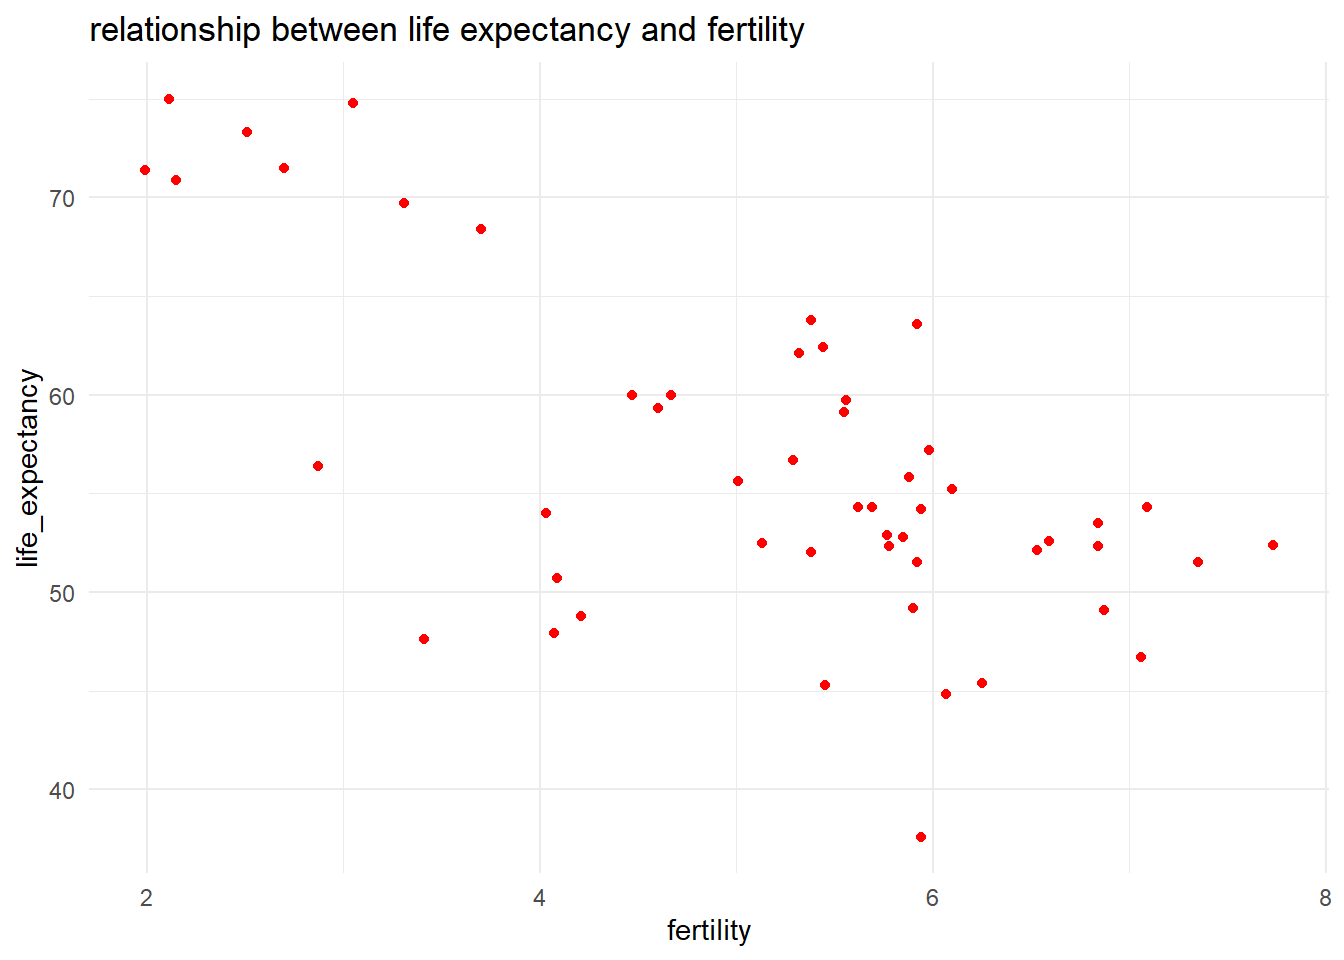
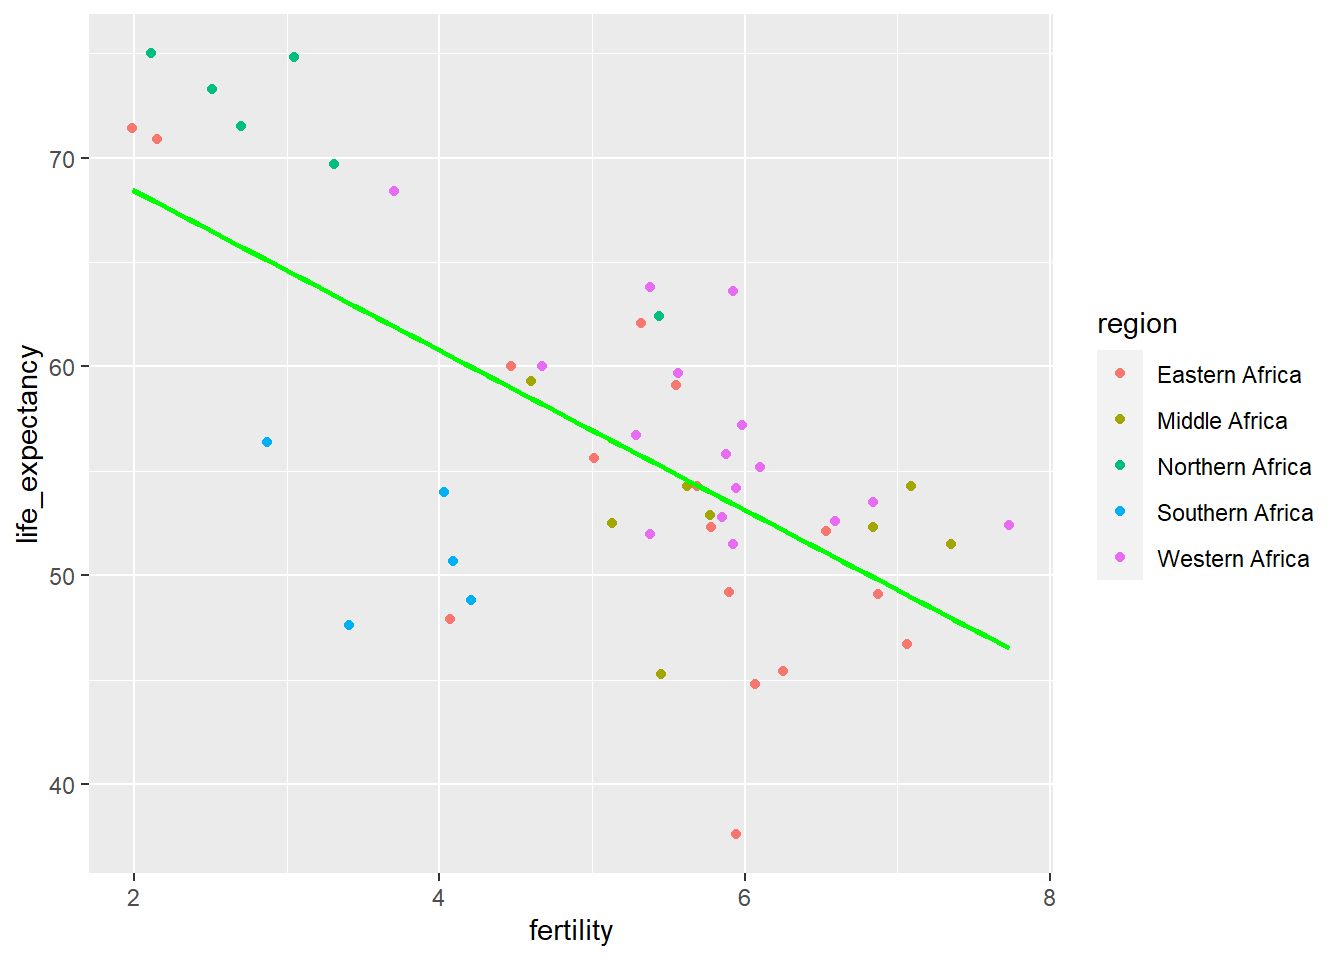
modified

diff --git a/docs/coding_exercise.html b/docs/coding_exercise.html
@@ -587,21 +587,60 @@ code span.wa { color: #60a0b0; font-weight: bold; font-style: italic; } /* Warni
 </div>
 <p>#####<strong>This section added by Weifan</strong></p>
 <div class="cell">
-<div class="sourceCode cell-code" id="cb40"><pre class="sourceCode r code-with-copy"><code class="sourceCode r"><span id="cb40-1"><a href="#cb40-1" aria-hidden="true" tabindex="-1"></a><span class="do">###plot life expectancy as a function of fertility</span></span>
-<span id="cb40-2"><a href="#cb40-2" aria-hidden="true" tabindex="-1"></a>y_2000<span class="sc">%&gt;%</span></span>
-<span id="cb40-3"><a href="#cb40-3" aria-hidden="true" tabindex="-1"></a>  <span class="fu">ggplot</span>(<span class="fu">aes</span>(<span class="at">x=</span>fertility,<span class="at">y=</span>life_expectancy))<span class="sc">+</span></span>
-<span id="cb40-4"><a href="#cb40-4" aria-hidden="true" tabindex="-1"></a>  <span class="fu">geom_point</span>(<span class="at">color=</span><span class="st">"red"</span>)<span class="sc">+</span></span>
-<span id="cb40-5"><a href="#cb40-5" aria-hidden="true" tabindex="-1"></a>  <span class="fu">labs</span>(<span class="at">x=</span><span class="st">"fertility"</span>,<span class="at">y=</span><span class="st">"life_expectancy"</span>, <span class="at">title=</span><span class="st">"relationship between life expectancy and fertility"</span>)<span class="sc">+</span></span>
-<span id="cb40-6"><a href="#cb40-6" aria-hidden="true" tabindex="-1"></a>  <span class="fu">theme_minimal</span>()</span></code><button title="Copy to Clipboard" class="code-copy-button"><i class="bi"></i></button></pre></div>
+<div class="sourceCode cell-code" id="cb40"><pre class="sourceCode r code-with-copy"><code class="sourceCode r"><span id="cb40-1"><a href="#cb40-1" aria-hidden="true" tabindex="-1"></a><span class="do">###find out if there is any missing value of fertility and gdp in year 2000</span></span>
+<span id="cb40-2"><a href="#cb40-2" aria-hidden="true" tabindex="-1"></a><span class="fu">summary</span>(y_2000)</span></code><button title="Copy to Clipboard" class="code-copy-button"><i class="bi"></i></button></pre></div>
+<div class="cell-output cell-output-stdout">
+<pre><code>         country        year      infant_mortality life_expectancy
+ Algeria     : 1   Min.   :2000   Min.   : 12.30   Min.   :37.60  
+ Angola      : 1   1st Qu.:2000   1st Qu.: 60.80   1st Qu.:51.75  
+ Benin       : 1   Median :2000   Median : 80.30   Median :54.30  
+ Botswana    : 1   Mean   :2000   Mean   : 78.93   Mean   :56.36  
+ Burkina Faso: 1   3rd Qu.:2000   3rd Qu.:103.30   3rd Qu.:60.00  
+ Burundi     : 1   Max.   :2000   Max.   :143.30   Max.   :75.00  
+ (Other)     :45                                                  
+   fertility       population             gdp               continent 
+ Min.   :1.990   Min.   :    81154   Min.   :2.019e+08   Africa  :51  
+ 1st Qu.:4.150   1st Qu.:  2304687   1st Qu.:1.274e+09   Americas: 0  
+ Median :5.550   Median :  8799165   Median :3.238e+09   Asia    : 0  
+ Mean   :5.156   Mean   : 15659800   Mean   :1.155e+10   Europe  : 0  
+ 3rd Qu.:5.960   3rd Qu.: 17391242   3rd Qu.:8.654e+09   Oceania : 0  
+ Max.   :7.730   Max.   :122876723   Max.   :1.329e+11                
+                                                                      
+                       region  
+ Eastern Africa           :16  
+ Western Africa           :16  
+ Middle Africa            : 8  
+ Northern Africa          : 6  
+ Southern Africa          : 5  
+ Australia and New Zealand: 0  
+ (Other)                  : 0  </code></pre>
+</div>
+<div class="sourceCode cell-code" id="cb42"><pre class="sourceCode r code-with-copy"><code class="sourceCode r"><span id="cb42-1"><a href="#cb42-1" aria-hidden="true" tabindex="-1"></a><span class="do">###since there is no missing value in year 2000, we still choose this year to plot life expectancy as a function of fertility</span></span>
+<span id="cb42-2"><a href="#cb42-2" aria-hidden="true" tabindex="-1"></a>y_2000<span class="sc">%&gt;%</span></span>
+<span id="cb42-3"><a href="#cb42-3" aria-hidden="true" tabindex="-1"></a>  <span class="fu">ggplot</span>(<span class="fu">aes</span>(<span class="at">x=</span>fertility,<span class="at">y=</span>life_expectancy,<span class="at">color=</span>region))<span class="sc">+</span></span>
+<span id="cb42-4"><a href="#cb42-4" aria-hidden="true" tabindex="-1"></a>  <span class="fu">geom_point</span>()<span class="sc">+</span></span>
+<span id="cb42-5"><a href="#cb42-5" aria-hidden="true" tabindex="-1"></a>  <span class="fu">geom_smooth</span>(<span class="at">method=</span><span class="st">"lm"</span>,<span class="at">se=</span><span class="cn">FALSE</span>,<span class="at">color=</span><span class="st">"green"</span>)</span></code><button title="Copy to Clipboard" class="code-copy-button"><i class="bi"></i></button></pre></div>
+<div class="cell-output cell-output-stderr">
+<pre><code>`geom_smooth()` using formula = 'y ~ x'</code></pre>
+</div>
 <div class="cell-output-display">
 <p><img src="coding_exercise_files/figure-html/unnamed-chunk-21-1.png" class="img-fluid" width="672"></p>
 </div>
-<div class="sourceCode cell-code" id="cb41"><pre class="sourceCode r code-with-copy"><code class="sourceCode r"><span id="cb41-1"><a href="#cb41-1" aria-hidden="true" tabindex="-1"></a><span class="do">###plot life expectancy as a function of gdp</span></span>
-<span id="cb41-2"><a href="#cb41-2" aria-hidden="true" tabindex="-1"></a>y_2000<span class="sc">%&gt;%</span></span>
-<span id="cb41-3"><a href="#cb41-3" aria-hidden="true" tabindex="-1"></a>  <span class="fu">ggplot</span>(<span class="fu">aes</span>(<span class="at">x=</span>gdp,<span class="at">y=</span>life_expectancy))<span class="sc">+</span></span>
-<span id="cb41-4"><a href="#cb41-4" aria-hidden="true" tabindex="-1"></a>  <span class="fu">geom_point</span>(<span class="at">shape=</span><span class="st">"triangle"</span>)<span class="sc">+</span></span>
-<span id="cb41-5"><a href="#cb41-5" aria-hidden="true" tabindex="-1"></a>  <span class="fu">labs</span>(<span class="at">x=</span><span class="st">"gdp"</span>,<span class="at">y=</span><span class="st">"life_expectancy"</span>, <span class="at">title=</span><span class="st">"relationship between life expectancy and gdp"</span>)<span class="sc">+</span></span>
-<span id="cb41-6"><a href="#cb41-6" aria-hidden="true" tabindex="-1"></a>  <span class="fu">scale_x_log10</span>(<span class="at">labels=</span>scales<span class="sc">::</span><span class="fu">dollar_format</span>())</span></code><button title="Copy to Clipboard" class="code-copy-button"><i class="bi"></i></button></pre></div>
+<div class="sourceCode cell-code" id="cb44"><pre class="sourceCode r code-with-copy"><code class="sourceCode r"><span id="cb44-1"><a href="#cb44-1" aria-hidden="true" tabindex="-1"></a>  <span class="fu">labs</span>(<span class="at">x=</span><span class="st">"fertility"</span>,<span class="at">y=</span><span class="st">"life_expectancy"</span>, <span class="at">title=</span><span class="st">"relationship between life expectancy and fertility"</span>)<span class="sc">+</span></span>
+<span id="cb44-2"><a href="#cb44-2" aria-hidden="true" tabindex="-1"></a>  <span class="fu">theme_minimal</span>()</span></code><button title="Copy to Clipboard" class="code-copy-button"><i class="bi"></i></button></pre></div>
+<div class="cell-output cell-output-stdout">
+<pre><code>NULL</code></pre>
+</div>
+<div class="sourceCode cell-code" id="cb46"><pre class="sourceCode r code-with-copy"><code class="sourceCode r"><span id="cb46-1"><a href="#cb46-1" aria-hidden="true" tabindex="-1"></a><span class="do">###plot life expectancy as a function of gdp</span></span>
+<span id="cb46-2"><a href="#cb46-2" aria-hidden="true" tabindex="-1"></a>y_2000<span class="sc">%&gt;%</span></span>
+<span id="cb46-3"><a href="#cb46-3" aria-hidden="true" tabindex="-1"></a>  <span class="fu">ggplot</span>(<span class="fu">aes</span>(<span class="at">x=</span>gdp,<span class="at">y=</span>life_expectancy,<span class="at">color=</span>region))<span class="sc">+</span></span>
+<span id="cb46-4"><a href="#cb46-4" aria-hidden="true" tabindex="-1"></a>  <span class="fu">geom_point</span>()<span class="sc">+</span></span>
+<span id="cb46-5"><a href="#cb46-5" aria-hidden="true" tabindex="-1"></a>  <span class="fu">geom_smooth</span>(<span class="at">method=</span><span class="st">"lm"</span>,<span class="at">se=</span><span class="cn">FALSE</span>,<span class="at">color=</span><span class="st">"red"</span>)<span class="sc">+</span></span>
+<span id="cb46-6"><a href="#cb46-6" aria-hidden="true" tabindex="-1"></a>  <span class="fu">labs</span>(<span class="at">x=</span><span class="st">"gdp"</span>,<span class="at">y=</span><span class="st">"life_expectancy"</span>, <span class="at">title=</span><span class="st">"relationship between life expectancy and gdp in five different regions"</span>)<span class="sc">+</span></span>
+<span id="cb46-7"><a href="#cb46-7" aria-hidden="true" tabindex="-1"></a>  <span class="fu">scale_x_log10</span>(<span class="at">labels=</span>scales<span class="sc">::</span><span class="fu">dollar_format</span>())</span></code><button title="Copy to Clipboard" class="code-copy-button"><i class="bi"></i></button></pre></div>
+<div class="cell-output cell-output-stderr">
+<pre><code>`geom_smooth()` using formula = 'y ~ x'</code></pre>
+</div>
 <div class="cell-output-display">
 <p><img src="coding_exercise_files/figure-html/unnamed-chunk-21-2.png" class="img-fluid" width="672"></p>
 </div>
@@ -612,9 +651,9 @@ code span.wa { color: #60a0b0; font-weight: bold; font-style: italic; } /* Warni
 <h1>Simple Fit</h1>
 <p><strong>linear model to fit outcome = life expectancy and predictor = infant mortality</strong></p>
 <div class="cell">
-<div class="sourceCode cell-code" id="cb42"><pre class="sourceCode r code-with-copy"><code class="sourceCode r"><span id="cb42-1"><a href="#cb42-1" aria-hidden="true" tabindex="-1"></a>fit1 <span class="ot">=</span> <span class="fu">lm</span>(life_expectancy<span class="sc">~</span>infant_mortality, <span class="at">data=</span>y_2000)</span>
-<span id="cb42-2"><a href="#cb42-2" aria-hidden="true" tabindex="-1"></a>fit1_table <span class="ot">=</span> broom<span class="sc">::</span><span class="fu">tidy</span>(fit1)</span>
-<span id="cb42-3"><a href="#cb42-3" aria-hidden="true" tabindex="-1"></a><span class="fu">print</span>(fit1_table)</span></code><button title="Copy to Clipboard" class="code-copy-button"><i class="bi"></i></button></pre></div>
+<div class="sourceCode cell-code" id="cb48"><pre class="sourceCode r code-with-copy"><code class="sourceCode r"><span id="cb48-1"><a href="#cb48-1" aria-hidden="true" tabindex="-1"></a>fit1 <span class="ot">=</span> <span class="fu">lm</span>(life_expectancy<span class="sc">~</span>infant_mortality, <span class="at">data=</span>y_2000)</span>
+<span id="cb48-2"><a href="#cb48-2" aria-hidden="true" tabindex="-1"></a>fit1_table <span class="ot">=</span> broom<span class="sc">::</span><span class="fu">tidy</span>(fit1)</span>
+<span id="cb48-3"><a href="#cb48-3" aria-hidden="true" tabindex="-1"></a><span class="fu">print</span>(fit1_table)</span></code><button title="Copy to Clipboard" class="code-copy-button"><i class="bi"></i></button></pre></div>
 <div class="cell-output cell-output-stdout">
 <pre><code># A tibble: 2 × 5
   term             estimate std.error statistic  p.value
@@ -627,9 +666,9 @@ code span.wa { color: #60a0b0; font-weight: bold; font-style: italic; } /* Warni
 <h2 class="anchored" data-anchor-id="section-8"></h2>
 <p><strong>linear model to fit outcome = life expectancy and predictor = population</strong></p>
 <div class="cell">
-<div class="sourceCode cell-code" id="cb44"><pre class="sourceCode r code-with-copy"><code class="sourceCode r"><span id="cb44-1"><a href="#cb44-1" aria-hidden="true" tabindex="-1"></a>fit2 <span class="ot">=</span> <span class="fu">lm</span>(life_expectancy<span class="sc">~</span>population, <span class="at">data=</span>y_2000)</span>
-<span id="cb44-2"><a href="#cb44-2" aria-hidden="true" tabindex="-1"></a>fit2_table <span class="ot">=</span> broom<span class="sc">::</span><span class="fu">tidy</span>(fit2)</span>
-<span id="cb44-3"><a href="#cb44-3" aria-hidden="true" tabindex="-1"></a><span class="fu">print</span>(fit2_table)</span></code><button title="Copy to Clipboard" class="code-copy-button"><i class="bi"></i></button></pre></div>
+<div class="sourceCode cell-code" id="cb50"><pre class="sourceCode r code-with-copy"><code class="sourceCode r"><span id="cb50-1"><a href="#cb50-1" aria-hidden="true" tabindex="-1"></a>fit2 <span class="ot">=</span> <span class="fu">lm</span>(life_expectancy<span class="sc">~</span>population, <span class="at">data=</span>y_2000)</span>
+<span id="cb50-2"><a href="#cb50-2" aria-hidden="true" tabindex="-1"></a>fit2_table <span class="ot">=</span> broom<span class="sc">::</span><span class="fu">tidy</span>(fit2)</span>
+<span id="cb50-3"><a href="#cb50-3" aria-hidden="true" tabindex="-1"></a><span class="fu">print</span>(fit2_table)</span></code><button title="Copy to Clipboard" class="code-copy-button"><i class="bi"></i></button></pre></div>
 <div class="cell-output cell-output-stdout">
 <pre><code># A tibble: 2 × 5
   term             estimate    std.error statistic  p.value
@@ -642,15 +681,15 @@ code span.wa { color: #60a0b0; font-weight: bold; font-style: italic; } /* Warni
 <h4 class="anchored" data-anchor-id="section-9"></h4>
 <p><strong>this section is added by Weifan</strong></p>
 <div class="cell">
-<div class="sourceCode cell-code" id="cb46"><pre class="sourceCode r code-with-copy"><code class="sourceCode r"><span id="cb46-1"><a href="#cb46-1" aria-hidden="true" tabindex="-1"></a><span class="do">###linear model to predict life expectancy using fertility</span></span>
-<span id="cb46-2"><a href="#cb46-2" aria-hidden="true" tabindex="-1"></a>lm1<span class="ot">=</span><span class="fu">lm</span>(life_expectancy<span class="sc">~</span>fertility, <span class="at">data=</span>y_2000)</span>
-<span id="cb46-3"><a href="#cb46-3" aria-hidden="true" tabindex="-1"></a>table1<span class="ot">=</span>broom<span class="sc">::</span><span class="fu">tidy</span>(lm1)<span class="sc">%&gt;%</span></span>
-<span id="cb46-4"><a href="#cb46-4" aria-hidden="true" tabindex="-1"></a>  knitr<span class="sc">::</span><span class="fu">kable</span>(<span class="at">digits=</span><span class="dv">3</span>)</span>
-<span id="cb46-5"><a href="#cb46-5" aria-hidden="true" tabindex="-1"></a><span class="do">###linear model to predict life expectancy using gdp</span></span>
-<span id="cb46-6"><a href="#cb46-6" aria-hidden="true" tabindex="-1"></a>lm2<span class="ot">=</span><span class="fu">lm</span>(life_expectancy<span class="sc">~</span>gdp,<span class="at">data=</span>y_2000)</span>
-<span id="cb46-7"><a href="#cb46-7" aria-hidden="true" tabindex="-1"></a>table2<span class="ot">=</span>broom<span class="sc">::</span><span class="fu">tidy</span>(lm2)<span class="sc">%&gt;%</span></span>
-<span id="cb46-8"><a href="#cb46-8" aria-hidden="true" tabindex="-1"></a>  knitr<span class="sc">::</span><span class="fu">kable</span>(<span class="at">digits=</span><span class="dv">3</span>)</span>
-<span id="cb46-9"><a href="#cb46-9" aria-hidden="true" tabindex="-1"></a>table1</span></code><button title="Copy to Clipboard" class="code-copy-button"><i class="bi"></i></button></pre></div>
+<div class="sourceCode cell-code" id="cb52"><pre class="sourceCode r code-with-copy"><code class="sourceCode r"><span id="cb52-1"><a href="#cb52-1" aria-hidden="true" tabindex="-1"></a><span class="do">###linear model to predict life expectancy using fertility</span></span>
+<span id="cb52-2"><a href="#cb52-2" aria-hidden="true" tabindex="-1"></a>lm1<span class="ot">=</span><span class="fu">lm</span>(life_expectancy<span class="sc">~</span>fertility, <span class="at">data=</span>y_2000)</span>
+<span id="cb52-3"><a href="#cb52-3" aria-hidden="true" tabindex="-1"></a>table1<span class="ot">=</span>broom<span class="sc">::</span><span class="fu">tidy</span>(lm1)<span class="sc">%&gt;%</span></span>
+<span id="cb52-4"><a href="#cb52-4" aria-hidden="true" tabindex="-1"></a>  knitr<span class="sc">::</span><span class="fu">kable</span>(<span class="at">digits=</span><span class="dv">3</span>)</span>
+<span id="cb52-5"><a href="#cb52-5" aria-hidden="true" tabindex="-1"></a><span class="do">###linear model to predict life expectancy using gdp</span></span>
+<span id="cb52-6"><a href="#cb52-6" aria-hidden="true" tabindex="-1"></a>lm2<span class="ot">=</span><span class="fu">lm</span>(life_expectancy<span class="sc">~</span>gdp,<span class="at">data=</span>y_2000)</span>
+<span id="cb52-7"><a href="#cb52-7" aria-hidden="true" tabindex="-1"></a>table2<span class="ot">=</span>broom<span class="sc">::</span><span class="fu">tidy</span>(lm2)<span class="sc">%&gt;%</span></span>
+<span id="cb52-8"><a href="#cb52-8" aria-hidden="true" tabindex="-1"></a>  knitr<span class="sc">::</span><span class="fu">kable</span>(<span class="at">digits=</span><span class="dv">3</span>)</span>
+<span id="cb52-9"><a href="#cb52-9" aria-hidden="true" tabindex="-1"></a>table1</span></code><button title="Copy to Clipboard" class="code-copy-button"><i class="bi"></i></button></pre></div>
 <div class="cell-output-display">
 <table class="table table-sm table-striped">
 <thead>
@@ -680,7 +719,7 @@ code span.wa { color: #60a0b0; font-weight: bold; font-style: italic; } /* Warni
 </tbody>
 </table>
 </div>
-<div class="sourceCode cell-code" id="cb47"><pre class="sourceCode r code-with-copy"><code class="sourceCode r"><span id="cb47-1"><a href="#cb47-1" aria-hidden="true" tabindex="-1"></a>table2</span></code><button title="Copy to Clipboard" class="code-copy-button"><i class="bi"></i></button></pre></div>
+<div class="sourceCode cell-code" id="cb53"><pre class="sourceCode r code-with-copy"><code class="sourceCode r"><span id="cb53-1"><a href="#cb53-1" aria-hidden="true" tabindex="-1"></a>table2</span></code><button title="Copy to Clipboard" class="code-copy-button"><i class="bi"></i></button></pre></div>
 <div class="cell-output-display">
 <table class="table table-sm table-striped">
 <thead>
